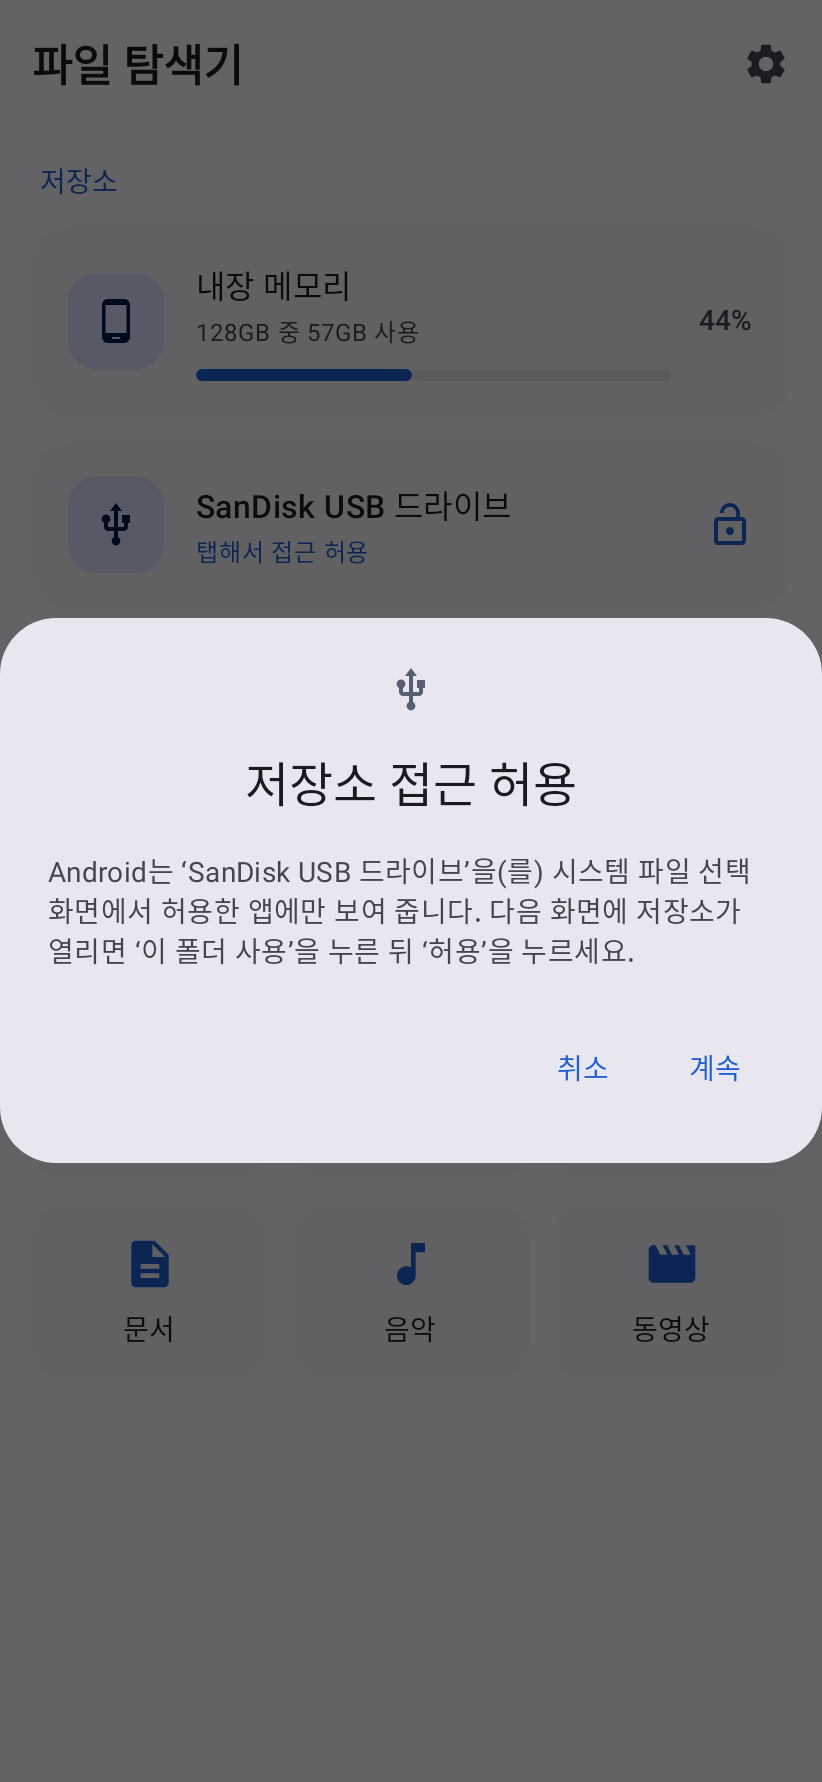
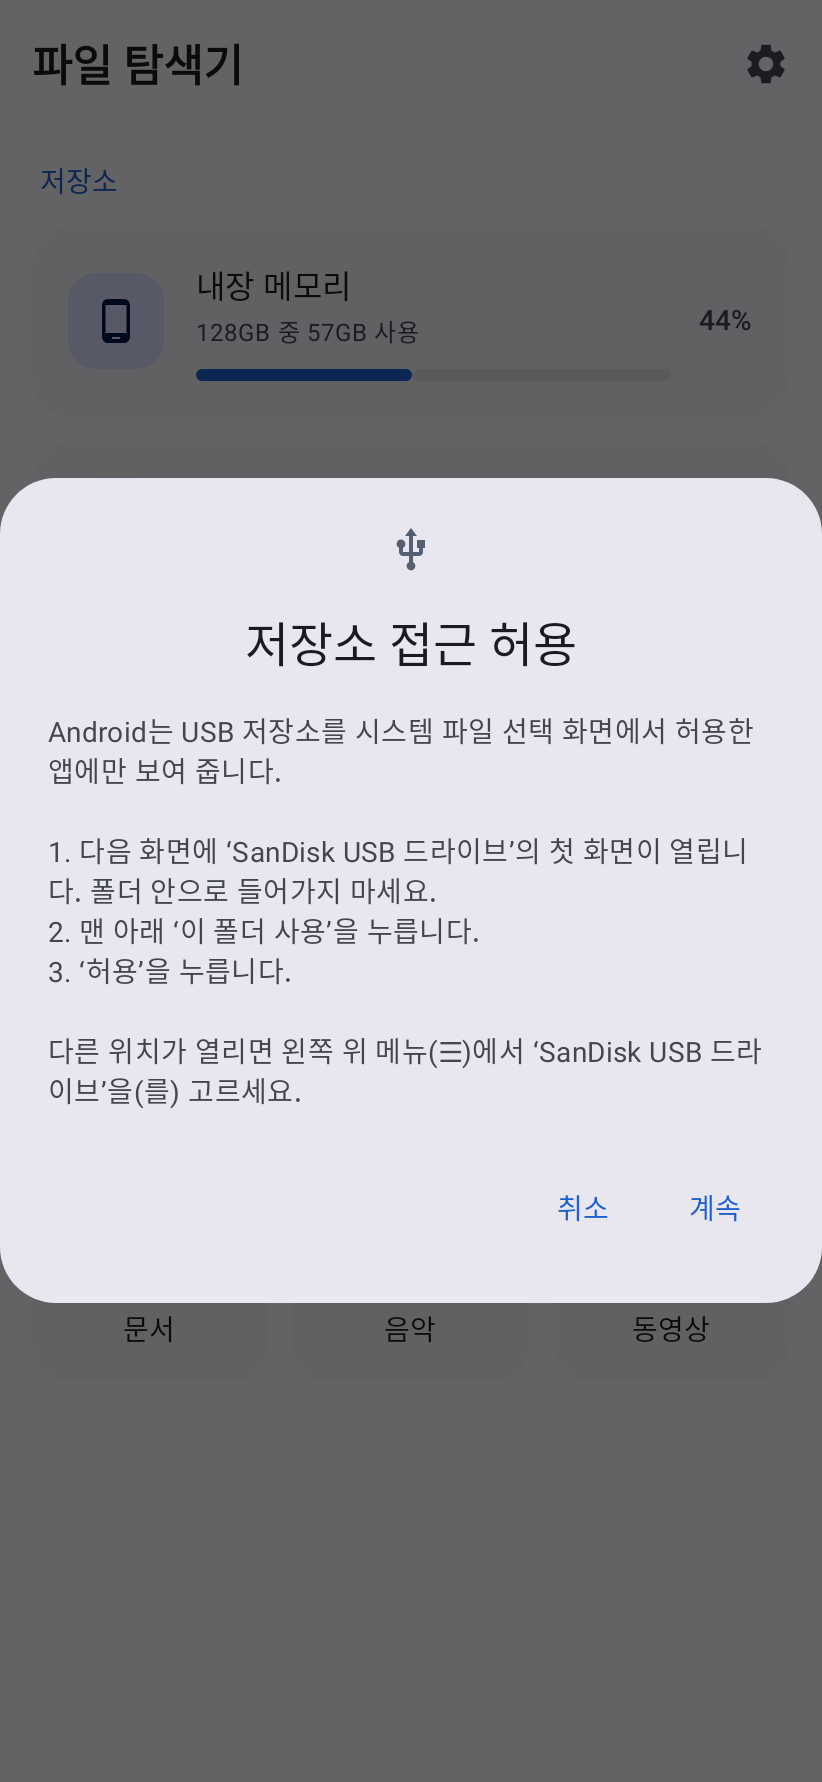
USB drives: clearer access guide, grant fallbacks and in-app diagnostics
A drive could still ask for access after it was allowed on a device.
- Step-by-step guide before the picker (stay on the drive's top level,
  Use this folder, Allow; pick the drive from the menu if needed)
- Say when the picker comes back without access
- A newer volume read is no longer undone by an older one finishing late
- A granted drive root no mounted volume claims is tied to the one
  removable drive still waiting for access
- Settings > USB diagnostics: volumes as Android reports them, granted
  folders and the recent picker steps with failure reasons, to copy

Claude-Session: https://claude.ai/code/session_01RdX9vBfbeHqES3kjX5zyQK

diff --git a/app/src/main/java/com/offlinefiles/explorer/data/StorageVolumes.kt b/app/src/main/java/com/offlinefiles/explorer/data/StorageVolumes.kt
@@ -81,7 +81,7 @@ object StorageVolumes {
         val sm = context.getSystemService(StorageManager::class.java)
         val result = LinkedHashMap<String, VolumeInfo>()
         val primary = Environment.getExternalStorageDirectory()
-        val grants = grants(context)
+        val grants = withOrphanGrant(grants(context), sm)
 
         if (Build.VERSION.SDK_INT >= Build.VERSION_CODES.R && sm != null) {
             for (v in sm.storageVolumes) {
@@ -112,6 +112,19 @@ object StorageVolumes {
             describe(context, null, primary, grants)?.let { result[primary.path] = it }
         }
         return result.values.sortedBy { it.kind.ordinal }
+    }
+
+    /**
+     * A drive root the user allowed whose id matches no mounted volume, while exactly one removable
+     * volume has no access yet: they are the same drive (the picker spelled its id differently).
+     */
+    private fun withOrphanGrant(grants: Map<String, Grant>, sm: StorageManager?): Map<String, Grant> {
+        val removable = runCatching { sm?.storageVolumes.orEmpty() }.getOrDefault(emptyList())
+            .filter { it.isRemovable && isMounted(it) }.mapNotNull { it.uuid?.let(::key) }.toSet()
+        val orphans = grants.filterKeys { it !in removable }
+        val waiting = removable.filter { it !in grants }
+        if (orphans.size != 1 || waiting.size != 1) return grants
+        return grants + (waiting.single() to orphans.values.single())
     }
 
     private fun isMounted(v: StorageVolume): Boolean =
@@ -270,20 +283,31 @@ object StorageVolumes {
         val drives = volumes.filter { it.kind != VolumeKind.INTERNAL && it.uuid != null }
         val volume = drives.firstOrNull { key(it.uuid!!) == key(pickedId) }
             ?: drives.firstOrNull { it.uuid == requested }?.takeIf { pickedId !in INTERNAL_ROOTS }
-            ?: return GrantResult.NotADrive
-        if (driveRootOf(uri) == null) return GrantResult.NotRoot
+        if (volume == null) {
+            UsbDiagnostics.log(context, "picked id '$pickedId' matches no drive (drives=${drives.map { it.uuid }}, requested=$requested)")
+            return GrantResult.NotADrive
+        }
+        if (driveRootOf(uri) == null) {
+            UsbDiagnostics.log(context, "picked a folder inside the drive: $id")
+            return GrantResult.NotRoot
+        }
 
         val resolver = context.contentResolver
         val read = Intent.FLAG_GRANT_READ_URI_PERMISSION
         val write = Intent.FLAG_GRANT_WRITE_URI_PERMISSION
         // Read-only drives may come back without write access; reading alone is still worth keeping.
         val taken = listOf(read or write, read).firstOrNull { flags ->
-            runCatching { resolver.takePersistableUriPermission(uri, flags) }.isSuccess
+            runCatching { resolver.takePersistableUriPermission(uri, flags) }
+                .onFailure { UsbDiagnostics.log(context, "take flags=$flags failed: ${it.javaClass.simpleName}: ${it.message}") }
+                .isSuccess
         } ?: return GrantResult.Failed
-        if (!canList(resolver, uri, id)) {
+        val listError = listError(resolver, uri, id)
+        if (listError != null) {
+            UsbDiagnostics.log(context, "granted (flags=$taken) but listing failed: $listError")
             runCatching { resolver.releasePersistableUriPermission(uri, taken) }
             return GrantResult.Unreadable
         }
+        UsbDiagnostics.log(context, "granted ${volume.uuid} via $uri (flags=$taken)")
         val uuid = volume.uuid!!
         val sp = grantPrefs(context).edit()
         if (key(uuid) == key(pickedId)) sp.remove(VOLUME_PREFIX + uuid) else sp.putString(VOLUME_PREFIX + uuid, uri.toString())
@@ -294,12 +318,14 @@ object StorageVolumes {
     /** Ids the external storage provider uses for the phone's own storage, never a removable drive. */
     private val INTERNAL_ROOTS = setOf("primary", "home")
 
-    private fun canList(resolver: ContentResolver, tree: Uri, rootId: String): Boolean = try {
+    /** Why the drive's top folder can't be listed, or null if it can. */
+    private fun listError(resolver: ContentResolver, tree: Uri, rootId: String): String? = try {
         val children = DocumentsContract.buildChildDocumentsUriUsingTree(tree, rootId)
-        resolver.query(children, arrayOf(DocumentsContract.Document.COLUMN_DOCUMENT_ID), null as Bundle?, null)
-            ?.use { true } ?: false
+        val cursor = resolver.query(children, arrayOf(DocumentsContract.Document.COLUMN_DOCUMENT_ID), null as Bundle?, null)
+        cursor?.close()
+        if (cursor == null) "provider returned nothing" else null
     } catch (e: Exception) {
-        false
+        "${e.javaClass.simpleName}: ${e.message}"
     }
 
     /** Gives back access to drives the user opened in the file picker. */

diff --git a/app/src/main/java/com/offlinefiles/explorer/ui/MainViewModel.kt b/app/src/main/java/com/offlinefiles/explorer/ui/MainViewModel.kt
@@ -1,5 +1,6 @@
 package com.offlinefiles.explorer.ui
 
+import android.app.Activity
 import android.app.Application
 import android.content.Intent
 import android.net.Uri
@@ -37,6 +38,7 @@ import com.offlinefiles.explorer.data.GrantResult
 import com.offlinefiles.explorer.data.Settings
 import com.offlinefiles.explorer.data.StorageVolumes
 import com.offlinefiles.explorer.data.Stores
+import com.offlinefiles.explorer.data.UsbDiagnostics
 import com.offlinefiles.explorer.data.ViewMode
 import com.offlinefiles.explorer.data.VolumeAccess
 import com.offlinefiles.explorer.data.VolumeInfo
@@ -251,13 +253,20 @@ class MainViewModel(application: Application) : AndroidViewModel(application) {
 
     fun refreshVolumes(then: ((List<VolumeInfo>) -> Unit)? = null) {
         viewModelScope.launch {
+            val seq = ++volumeReads
             val list = withContext(Dispatchers.IO) { StorageVolumes.list(app) }
-            applyVolumes(list)
+            applyVolumes(list, seq)
             then?.invoke(list)
         }
     }
 
-    private fun applyVolumes(list: List<VolumeInfo>) {
+    /** Volume lists run side by side; one read before a newer one finished must not undo it (e.g. a fresh grant). */
+    private var volumeReads = 0L
+    private var volumesApplied = 0L
+
+    private fun applyVolumes(list: List<VolumeInfo>, seq: Long = ++volumeReads) {
+        if (seq < volumesApplied) return
+        volumesApplied = seq
         val before = _volumes.value
         Stores.update(app.contentResolver, list)
         _volumes.value = list
@@ -280,7 +289,8 @@ class MainViewModel(application: Application) : AndroidViewModel(application) {
         usbJob = viewModelScope.launch {
             for (wait in longArrayOf(0L, 1500L, 3500L)) {
                 delay(wait)
-                applyVolumes(withContext(Dispatchers.IO) { StorageVolumes.list(app) })
+                val seq = ++volumeReads
+                applyVolumes(withContext(Dispatchers.IO) { StorageVolumes.list(app) }, seq)
             }
         }
     }
@@ -294,7 +304,21 @@ class MainViewModel(application: Application) : AndroidViewModel(application) {
     fun requestAccess(v: VolumeInfo) {
         dialog.value = null
         StorageVolumes.rememberRequest(app, v)
-        eventChannel.trySend(UiEvent.RequestAccess(StorageVolumes.accessIntent(app, v)))
+        val intent = StorageVolumes.accessIntent(app, v)
+        UsbDiagnostics.log(app, "ask ${v.uuid} (${v.access}, ${v.path}): ${UsbDiagnostics.describe(intent)}")
+        eventChannel.trySend(UiEvent.RequestAccess(intent))
+    }
+
+    /** The system file picker closed. */
+    fun onPickerResult(resultCode: Int, data: Intent?) {
+        UsbDiagnostics.log(app, "picker result=$resultCode ${UsbDiagnostics.describe(data)}")
+        val uri = if (resultCode == Activity.RESULT_OK) data?.data else null
+        if (uri == null) {
+            StorageVolumes.takeRequest(app)
+            message(R.string.msg_usb_picker_cancelled)
+            return
+        }
+        onAccessResult(uri)
     }
 
     /** What the user picked in the system file picker (null if they backed out). */
@@ -307,6 +331,7 @@ class MainViewModel(application: Application) : AndroidViewModel(application) {
                 val r = StorageVolumes.acceptGrant(app, uri, StorageVolumes.list(app), requested)
                 r to StorageVolumes.list(app)
             }
+            UsbDiagnostics.log(app, "result $r → ${list.filter { it.kind != VolumeKind.INTERNAL }.map { "${it.uuid}:${it.access}" }}")
             when (r) {
                 is GrantResult.Granted -> {
                     applyVolumes(list)
@@ -439,8 +464,11 @@ class MainViewModel(application: Application) : AndroidViewModel(application) {
                         selection.update { sel -> sel.filterTo(HashSet()) { it in present } }
                     }
                 }
-                ListResult.Denied -> _browser.update { it.copy(loading = false, all = emptyList(), status = BrowserUi.Status.DENIED) }
-                ListResult.NotFound -> _browser.update { it.copy(loading = false, all = emptyList(), status = BrowserUi.Status.NOT_FOUND) }
+                ListResult.Denied, ListResult.NotFound -> {
+                    if (Stores.isDocument(path)) UsbDiagnostics.log(app, "listing $result: $path (${Stores.tree(path)?.lastError})")
+                    val status = if (result == ListResult.Denied) BrowserUi.Status.DENIED else BrowserUi.Status.NOT_FOUND
+                    _browser.update { it.copy(loading = false, all = emptyList(), status = status) }
+                }
             }
         }
     }

diff --git a/app/src/main/java/com/offlinefiles/explorer/data/UsbDiagnostics.kt b/app/src/main/java/com/offlinefiles/explorer/data/UsbDiagnostics.kt
@@ -1,0 +1,77 @@
+package com.offlinefiles.explorer.data
+
+import android.content.Context
+import android.content.Intent
+import android.os.Build
+import android.os.storage.StorageManager
+import com.offlinefiles.explorer.BuildConfig
+import java.io.File
+import java.text.SimpleDateFormat
+import java.util.Date
+import java.util.Locale
+
+/**
+ * What happened the last few times a USB drive was opened to the app, plus how Android currently
+ * describes the drives. Shown in Settings so a user can copy it when a drive won't open.
+ * Kept on the device only (the app has no network access).
+ */
+object UsbDiagnostics {
+    private const val PREFS = "usb_diagnostics"
+    private const val KEY = "log"
+    private const val MAX_LINES = 60
+
+    fun log(context: Context, message: String) {
+        val sp = context.getSharedPreferences(PREFS, Context.MODE_PRIVATE)
+        val time = SimpleDateFormat("MM-dd HH:mm:ss", Locale.US).format(Date())
+        val lines = sp.getString(KEY, "").orEmpty().lines().filter { it.isNotBlank() } + "$time $message"
+        sp.edit().putString(KEY, lines.takeLast(MAX_LINES).joinToString("\n")).apply()
+    }
+
+    fun clear(context: Context) {
+        context.getSharedPreferences(PREFS, Context.MODE_PRIVATE).edit().clear().apply()
+    }
+
+    fun report(context: Context): String = buildString {
+        appendLine("App ${BuildConfig.VERSION_NAME} (${BuildConfig.VERSION_CODE})")
+        appendLine("Device ${Build.MANUFACTURER} ${Build.MODEL}, Android ${Build.VERSION.RELEASE} (API ${Build.VERSION.SDK_INT})")
+        appendLine("All files access: ${StoragePermission.isGranted(context)}")
+        appendLine()
+        appendLine("[System volumes]")
+        val sm = context.getSystemService(StorageManager::class.java)
+        runCatching {
+            for (v in sm?.storageVolumes.orEmpty()) {
+                val dir: File? = if (Build.VERSION.SDK_INT >= Build.VERSION_CODES.R) v.directory else null
+                val listed = runCatching { dir?.list()?.size }.getOrNull()
+                appendLine(
+                    "- ${runCatching { v.getDescription(context) }.getOrNull()} uuid=${v.uuid} state=${v.state} " +
+                        "primary=${v.isPrimary} removable=${v.isRemovable} dir=${dir?.path} list=${listed ?: "null"}",
+                )
+            }
+        }.onFailure { appendLine("! ${it.javaClass.simpleName}: ${it.message}") }
+        appendLine()
+        appendLine("[App volumes]")
+        runCatching {
+            for (v in StorageVolumes.list(context)) {
+                appendLine("- ${v.label} kind=${v.kind} access=${v.access} uuid=${v.uuid} path=${v.path} readOnly=${v.readOnly} tree=${v.treeUri}")
+            }
+        }.onFailure { appendLine("! ${it.javaClass.simpleName}: ${it.message}") }
+        appendLine()
+        appendLine("[Granted folders]")
+        runCatching {
+            val perms = context.contentResolver.persistedUriPermissions
+            if (perms.isEmpty()) appendLine("(none)")
+            for (p in perms) appendLine("- ${p.uri} read=${p.isReadPermission} write=${p.isWritePermission}")
+        }.onFailure { appendLine("! ${it.javaClass.simpleName}: ${it.message}") }
+        appendLine()
+        appendLine("[Recent steps]")
+        val log = context.getSharedPreferences(PREFS, Context.MODE_PRIVATE).getString(KEY, "").orEmpty()
+        append(log.ifBlank { "(none)" })
+    }
+
+    /** One line describing an intent sent to or returned by the system file picker. */
+    fun describe(intent: Intent?): String {
+        if (intent == null) return "null"
+        val extras = runCatching { intent.extras?.keySet()?.joinToString { k -> "$k=${@Suppress("DEPRECATION") intent.extras?.get(k)}" } }.getOrNull()
+        return "action=${intent.action} data=${intent.data} flags=0x${Integer.toHexString(intent.flags)} extras={${extras.orEmpty()}}"
+    }
+}

diff --git a/app/src/main/java/com/offlinefiles/explorer/ui/settings/SettingsScreen.kt b/app/src/main/java/com/offlinefiles/explorer/ui/settings/SettingsScreen.kt
@@ -1,6 +1,15 @@
 package com.offlinefiles.explorer.ui.settings
 
 import android.os.Build
+import android.content.ClipData
+import android.content.ClipboardManager
+import android.widget.Toast
+import androidx.compose.foundation.layout.heightIn
+import androidx.compose.foundation.text.selection.SelectionContainer
+import androidx.compose.material.icons.filled.BugReport
+import androidx.compose.material3.AlertDialog
+import androidx.compose.material3.TextButton
+import com.offlinefiles.explorer.data.UsbDiagnostics
 import androidx.activity.compose.BackHandler
 import androidx.compose.foundation.clickable
 import androidx.compose.foundation.layout.Column
@@ -129,13 +138,18 @@ fun SettingsScreen(vm: MainViewModel) {
             val volumes by vm.volumes.collectAsStateWithLifecycle()
             var forgotten by remember { mutableStateOf(false) }
             val granted by produceState(0, volumes) { value = withContext(Dispatchers.IO) { StorageVolumes.grantedTrees(context).size } }
+            var diagnostics by remember { mutableStateOf(false) }
+            Section(stringResource(R.string.settings_storage))
             if (granted > 0 && !forgotten) {
-                Section(stringResource(R.string.settings_storage))
                 InfoRow(Icons.Filled.Usb, stringResource(R.string.settings_usb_access), stringResource(R.string.settings_usb_access_desc)) {
                     forgotten = true
                     vm.forgetDriveAccess()
                 }
             }
+            InfoRow(Icons.Filled.BugReport, stringResource(R.string.settings_usb_diag), stringResource(R.string.settings_usb_diag_desc)) {
+                diagnostics = true
+            }
+            if (diagnostics) UsbDiagnosticsDialog(onDismiss = { diagnostics = false })
             Section(stringResource(R.string.settings_about))
             InfoRow(Icons.Filled.WifiOff, stringResource(R.string.settings_offline), stringResource(R.string.settings_offline_desc))
             InfoRow(Icons.Filled.Info, stringResource(R.string.settings_version), BuildConfig.VERSION_NAME)
@@ -143,6 +157,36 @@ fun SettingsScreen(vm: MainViewModel) {
             Spacer(Modifier.height(24.dp))
         }
     }
+}
+
+/** How Android describes the drives and what happened the last times one was opened, to copy and send. */
+@Composable
+private fun UsbDiagnosticsDialog(onDismiss: () -> Unit) {
+    val context = LocalContext.current
+    val report by produceState<String?>(null) { value = withContext(Dispatchers.IO) { UsbDiagnostics.report(context) } }
+    AlertDialog(
+        onDismissRequest = onDismiss,
+        icon = { Icon(Icons.Filled.BugReport, null) },
+        title = { Text(stringResource(R.string.settings_usb_diag)) },
+        text = {
+            SelectionContainer {
+                Text(
+                    report ?: "…",
+                    style = MaterialTheme.typography.bodySmall,
+                    fontFamily = FontFamily.Monospace,
+                    modifier = Modifier.heightIn(max = 420.dp).verticalScroll(rememberScrollState()),
+                )
+            }
+        },
+        confirmButton = {
+            TextButton(enabled = report != null, onClick = {
+                val cm = context.getSystemService(ClipboardManager::class.java)
+                cm?.setPrimaryClip(ClipData.newPlainText("USB diagnostics", report))
+                Toast.makeText(context, R.string.msg_diag_copied, Toast.LENGTH_SHORT).show()
+            }) { Text(stringResource(R.string.action_copy)) }
+        },
+        dismissButton = { TextButton(onClick = onDismiss) { Text(stringResource(R.string.action_close)) } },
+    )
 }
 
 @Composable

diff --git a/app/src/test/java/com/offlinefiles/explorer/data/UsbStorageTest.kt b/app/src/test/java/com/offlinefiles/explorer/data/UsbStorageTest.kt
@@ -148,10 +148,21 @@ class UsbStorageTest {
         StorageVolumes.releaseGrants(app)
         assertEquals(VolumeAccess.NEEDS_GRANT, usb().access)
 
+        // Allowed earlier under an id no volume has, and only this drive is waiting: it is that drive.
+        app.contentResolver.takePersistableUriPermission(
+            FakeDriveProvider.treeUri("USB0"),
+            Intent.FLAG_GRANT_READ_URI_PERMISSION or Intent.FLAG_GRANT_WRITE_URI_PERMISSION,
+        )
+        assertEquals(VolumeAccess.DOCUMENTS, usb().access)
+        assertEquals(FakeDriveProvider.treeUri("USB0").toString(), usb().treeUri)
+        StorageVolumes.releaseGrants(app)
+        assertEquals(VolumeAccess.NEEDS_GRANT, usb().access)
+
         // Access that still can't list the drive is given back and reported, not kept.
         assertEquals(GrantResult.Unreadable, StorageVolumes.acceptGrant(app, FakeDriveProvider.treeUri("DEAD-BEEF"), volumes, uuid))
         assertTrue(StorageVolumes.grantedTrees(app).isEmpty())
         assertEquals(VolumeAccess.NEEDS_GRANT, usb().access)
+        assertTrue(UsbDiagnostics.report(app).contains("listing failed"))
     }
 
     @Test

diff --git a/app/src/main/java/com/offlinefiles/explorer/data/DocumentTree.kt b/app/src/main/java/com/offlinefiles/explorer/data/DocumentTree.kt
@@ -35,6 +35,11 @@ class DocumentTree(
 ) : FileStore {
     private val rootId: String = DocumentsContract.getTreeDocumentId(treeUri)
 
+    /** Why the last listing failed, for the USB diagnostics in Settings. */
+    @Volatile
+    var lastError: String? = null
+        private set
+
     fun contains(path: String): Boolean = path == rootPath || path.startsWith("$rootPath/")
 
     // ------------------------------------------------------------------ addresses
@@ -73,8 +78,10 @@ class DocumentTree(
         val cursor = try {
             resolver.query(uri, COLUMNS, null as Bundle?, null)
         } catch (e: SecurityException) {
+            lastError = "${e.javaClass.simpleName}: ${e.message}"
             return ListResult.Denied
         } catch (e: Exception) {
+            lastError = "${e.javaClass.simpleName}: ${e.message}"
             null
         } ?: return if (stat(dir) == null) ListResult.NotFound else ListResult.Denied
         val items = ArrayList<FileItem>(cursor.count.coerceAtLeast(0))

diff --git a/app/src/main/java/com/offlinefiles/explorer/ui/AppRoot.kt b/app/src/main/java/com/offlinefiles/explorer/ui/AppRoot.kt
@@ -79,7 +79,7 @@ fun AppRoot(vm: MainViewModel) {
 
         // The system file picker, for USB drives Android only shares with apps the user allows there.
         val accessLauncher = rememberLauncherForActivityResult(ActivityResultContracts.StartActivityForResult()) { result ->
-            vm.onAccessResult(if (result.resultCode == Activity.RESULT_OK) result.data?.data else null)
+            vm.onPickerResult(result.resultCode, result.data)
         }
         val snackbar = remember { SnackbarHostState() }
         LaunchedEffect(Unit) {

diff --git a/README.md b/README.md
@@ -24,6 +24,7 @@
   - 압축: USB에 있는 zip·7z 보기·풀기, USB에 압축 만들기. 압축 라이브러리는 실제 파일이 필요해서 앱 캐시에 잠시 복사해 처리한 뒤 지웁니다.
   - Android 8–10에서 쓰기가 막힌 SD 카드·USB는 ‘읽기 전용’으로 표시되고, 접근을 허용하면 파일을 바꿀 수 있습니다.
   - 설정 > 저장소에서 허용한 USB 접근 권한을 해제할 수 있습니다.
+  - USB가 열리지 않으면 설정 > 저장소 > ‘USB 연결 진단’에서 Android가 보고하는 저장소 정보, 허용된 폴더, 최근 허용 과정(선택 화면 결과·실패 이유)을 보고 복사할 수 있습니다. 기기 안에만 저장됩니다.
   - 제한: 파일 선택 화면으로 연 USB는 수정한 날짜를 바꿀 수 없어서, USB로 복사한 파일은 복사한 시각이 날짜가 됩니다. 이런 USB의 사진은 Android 미디어 목록에 없어서 갤러리에는 나오지 않습니다(파일 목록에서 누르면 뷰어로 열립니다). Android가 마운트하지 못하는 형식(예: 일부 기기의 NTFS)은 열 수 없습니다.
 - **탐색**: 목록·격자 보기, 정렬(이름·날짜·크기·종류), 숨김 파일 표시, 경로 표시줄, 빠른 접근 폴더
 - **검색**: 현재 폴더 또는 하위 폴더까지
